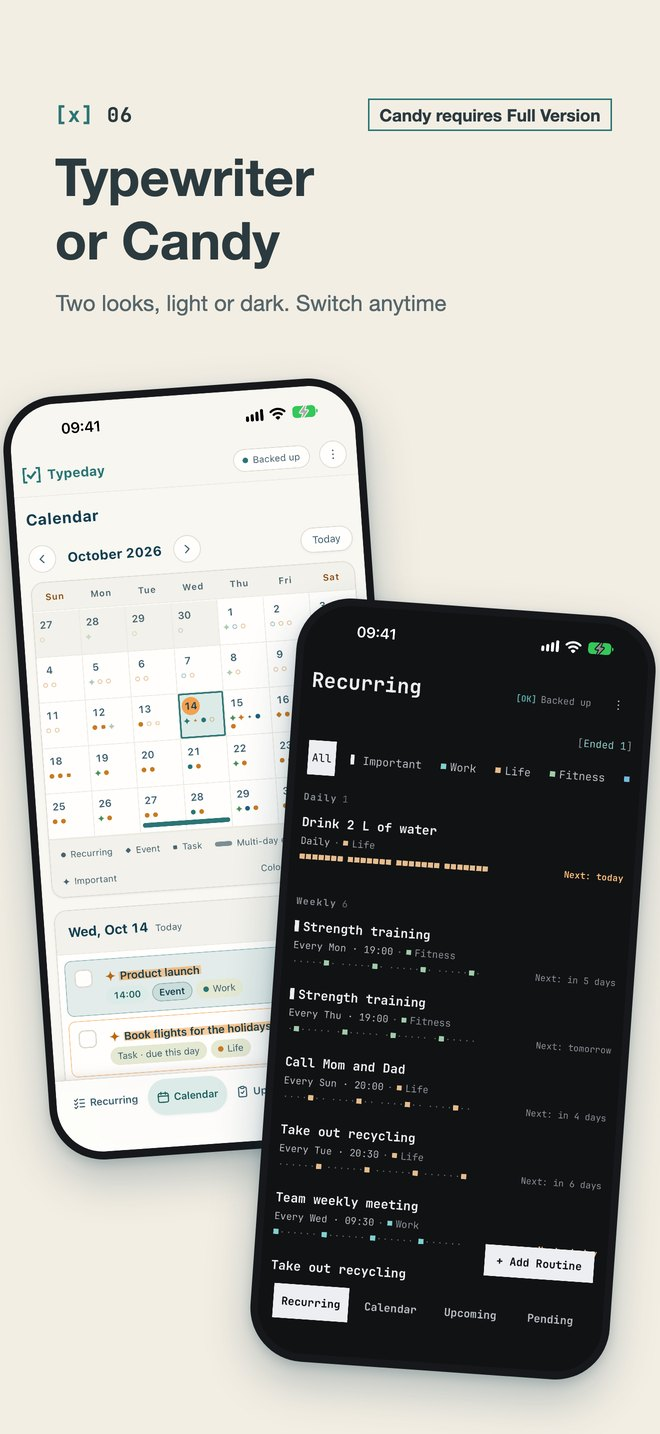
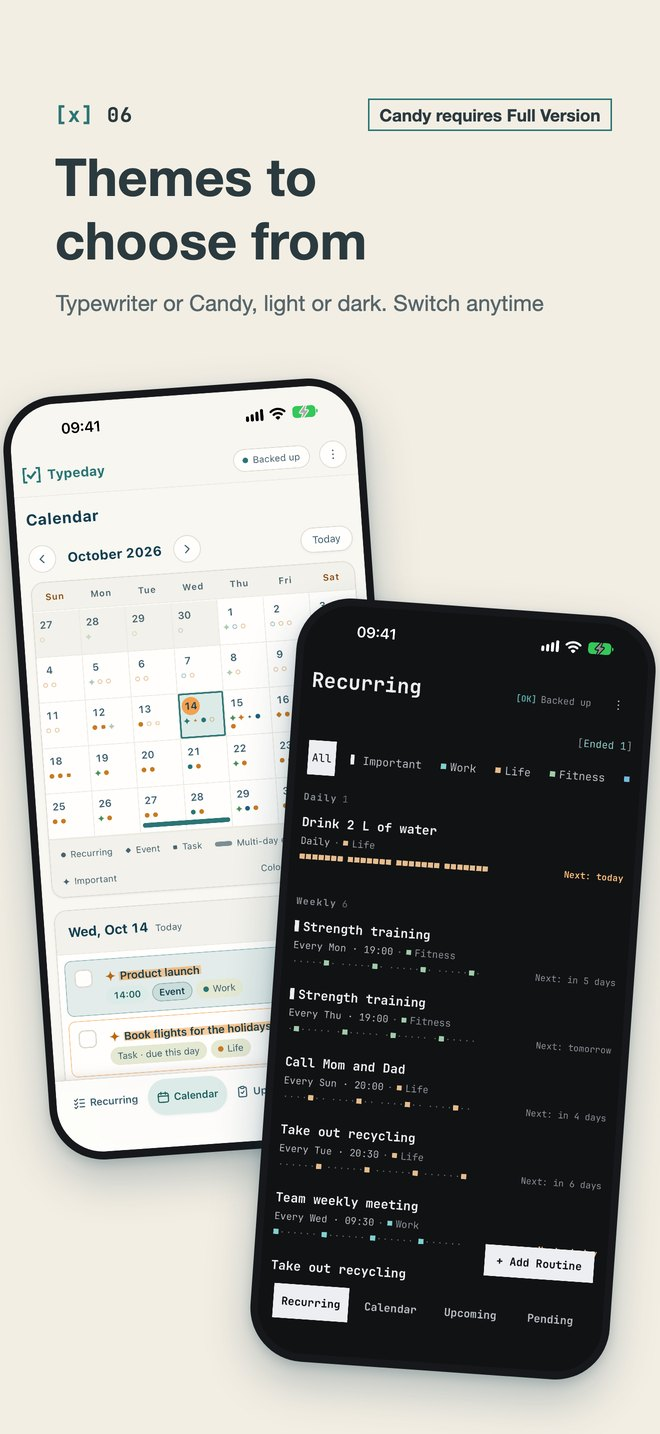
Typeday 截圖 06 換標題

Changed region(s): [[0.1212, 0.0921, 0.697, 0.2148], [0.7273, 0.1841, 0.8182, 0.2148]]

diff --git a/checkly-ios/2026-10-12-appstore/index.html b/checkly-ios/2026-10-12-appstore/index.html
@@ -18,6 +18,6 @@ figcaption{font-size:13px;color:var(--muted);margin-top:6px}
 <a class="back" href="../../">← 所有測試</a>
 <h1>Typeday 商店截圖（中英文各 7 張）</h1>
 <p>App Store 用的 iPhone 6.9 吋截圖（1320×2868），往左滑看下一張，點圖看原尺寸。示範資料重做過：每天要做的只剩一件，其他是每週兩次、每週、每兩週、每月；整個月只有四個行程。英文版是英文介面＋英文示範資料。</p>
-<h2>繁體中文</h2><div class="strip"><figure><a href="img/zh-Hant-01-calendar.png"><img src="img/zh-Hant-01-calendar.jpg" alt="點一天，就知道那天要做什麼" loading="lazy"></a><figcaption>01　點一天，就知道那天要做什麼</figcaption></figure><figure><a href="img/zh-Hant-02-recurring.png"><img src="img/zh-Hant-02-recurring.jpg" alt="每天、每週要做的事，一眼看完" loading="lazy"></a><figcaption>02　每天、每週要做的事，一眼看完</figcaption></figure><figure><a href="img/zh-Hant-03-tasks.png"><img src="img/zh-Hant-03-tasks.jpg" alt="大任務，拆成小步驟" loading="lazy"></a><figcaption>03　大任務，拆成小步驟</figcaption></figure><figure><a href="img/zh-Hant-04-pending.png"><img src="img/zh-Hant-04-pending.jpg" alt="沒勾到的，不會被忘記" loading="lazy"></a><figcaption>04　沒勾到的，不會被忘記</figcaption></figure><figure><a href="img/zh-Hant-05-widgets.png"><img src="img/zh-Hant-05-widgets.jpg" alt="把這一週，放在手機桌面" loading="lazy"></a><figcaption>05　把這一週，放在手機桌面</figcaption></figure><figure><a href="img/zh-Hant-06-themes.png"><img src="img/zh-Hant-06-themes.jpg" alt="打字機，或糖果紙" loading="lazy"></a><figcaption>06　打字機，或糖果紙</figcaption></figure><figure><a href="img/zh-Hant-07-backup.png"><img src="img/zh-Hant-07-backup.jpg" alt="資料只在你的手機和 iCloud" loading="lazy"></a><figcaption>07　資料只在你的手機和 iCloud</figcaption></figure></div><h2>English</h2><div class="strip"><figure><a href="img/en-01-calendar.png"><img src="img/en-01-calendar.jpg" alt="Tap a day, see your plan" loading="lazy"></a><figcaption>01　Tap a day, see your plan</figcaption></figure><figure><a href="img/en-02-recurring.png"><img src="img/en-02-recurring.jpg" alt="Every routine, at a glance" loading="lazy"></a><figcaption>02　Every routine, at a glance</figcaption></figure><figure><a href="img/en-03-tasks.png"><img src="img/en-03-tasks.jpg" alt="Big tasks, small steps" loading="lazy"></a><figcaption>03　Big tasks, small steps</figcaption></figure><figure><a href="img/en-04-pending.png"><img src="img/en-04-pending.jpg" alt="Missed it? It’s still here" loading="lazy"></a><figcaption>04　Missed it? It’s still here</figcaption></figure><figure><a href="img/en-05-widgets.png"><img src="img/en-05-widgets.jpg" alt="Your week on the Home Screen" loading="lazy"></a><figcaption>05　Your week on the Home Screen</figcaption></figure><figure><a href="img/en-06-themes.png"><img src="img/en-06-themes.jpg" alt="Typewriter or Candy" loading="lazy"></a><figcaption>06　Typewriter or Candy</figcaption></figure><figure><a href="img/en-07-backup.png"><img src="img/en-07-backup.jpg" alt="Your data stays with you" loading="lazy"></a><figcaption>07　Your data stays with you</figcaption></figure></div>
+<h2>繁體中文</h2><div class="strip"><figure><a href="img/zh-Hant-01-calendar.png"><img src="img/zh-Hant-01-calendar.jpg" alt="點一天，就知道那天要做什麼" loading="lazy"></a><figcaption>01　點一天，就知道那天要做什麼</figcaption></figure><figure><a href="img/zh-Hant-02-recurring.png"><img src="img/zh-Hant-02-recurring.jpg" alt="每天、每週要做的事，一眼看完" loading="lazy"></a><figcaption>02　每天、每週要做的事，一眼看完</figcaption></figure><figure><a href="img/zh-Hant-03-tasks.png"><img src="img/zh-Hant-03-tasks.jpg" alt="大任務，拆成小步驟" loading="lazy"></a><figcaption>03　大任務，拆成小步驟</figcaption></figure><figure><a href="img/zh-Hant-04-pending.png"><img src="img/zh-Hant-04-pending.jpg" alt="沒勾到的，不會被忘記" loading="lazy"></a><figcaption>04　沒勾到的，不會被忘記</figcaption></figure><figure><a href="img/zh-Hant-05-widgets.png"><img src="img/zh-Hant-05-widgets.jpg" alt="把這一週，放在手機桌面" loading="lazy"></a><figcaption>05　把這一週，放在手機桌面</figcaption></figure><figure><a href="img/zh-Hant-06-themes.png"><img src="img/zh-Hant-06-themes.jpg" alt="不同主題，供你挑選" loading="lazy"></a><figcaption>06　不同主題，供你挑選</figcaption></figure><figure><a href="img/zh-Hant-07-backup.png"><img src="img/zh-Hant-07-backup.jpg" alt="資料只在你的手機和 iCloud" loading="lazy"></a><figcaption>07　資料只在你的手機和 iCloud</figcaption></figure></div><h2>English</h2><div class="strip"><figure><a href="img/en-01-calendar.png"><img src="img/en-01-calendar.jpg" alt="Tap a day, see your plan" loading="lazy"></a><figcaption>01　Tap a day, see your plan</figcaption></figure><figure><a href="img/en-02-recurring.png"><img src="img/en-02-recurring.jpg" alt="Every routine, at a glance" loading="lazy"></a><figcaption>02　Every routine, at a glance</figcaption></figure><figure><a href="img/en-03-tasks.png"><img src="img/en-03-tasks.jpg" alt="Big tasks, small steps" loading="lazy"></a><figcaption>03　Big tasks, small steps</figcaption></figure><figure><a href="img/en-04-pending.png"><img src="img/en-04-pending.jpg" alt="Missed it? It’s still here" loading="lazy"></a><figcaption>04　Missed it? It’s still here</figcaption></figure><figure><a href="img/en-05-widgets.png"><img src="img/en-05-widgets.jpg" alt="Your week on the Home Screen" loading="lazy"></a><figcaption>05　Your week on the Home Screen</figcaption></figure><figure><a href="img/en-06-themes.png"><img src="img/en-06-themes.jpg" alt="Themes to choose from" loading="lazy"></a><figcaption>06　Themes to choose from</figcaption></figure><figure><a href="img/en-07-backup.png"><img src="img/en-07-backup.jpg" alt="Your data stays with you" loading="lazy"></a><figcaption>07　Your data stays with you</figcaption></figure></div>
 <p><a href="../2026-10-10-listing/">商店文案（中英文）與隱私權政策 →</a></p>
 </div></body></html>
